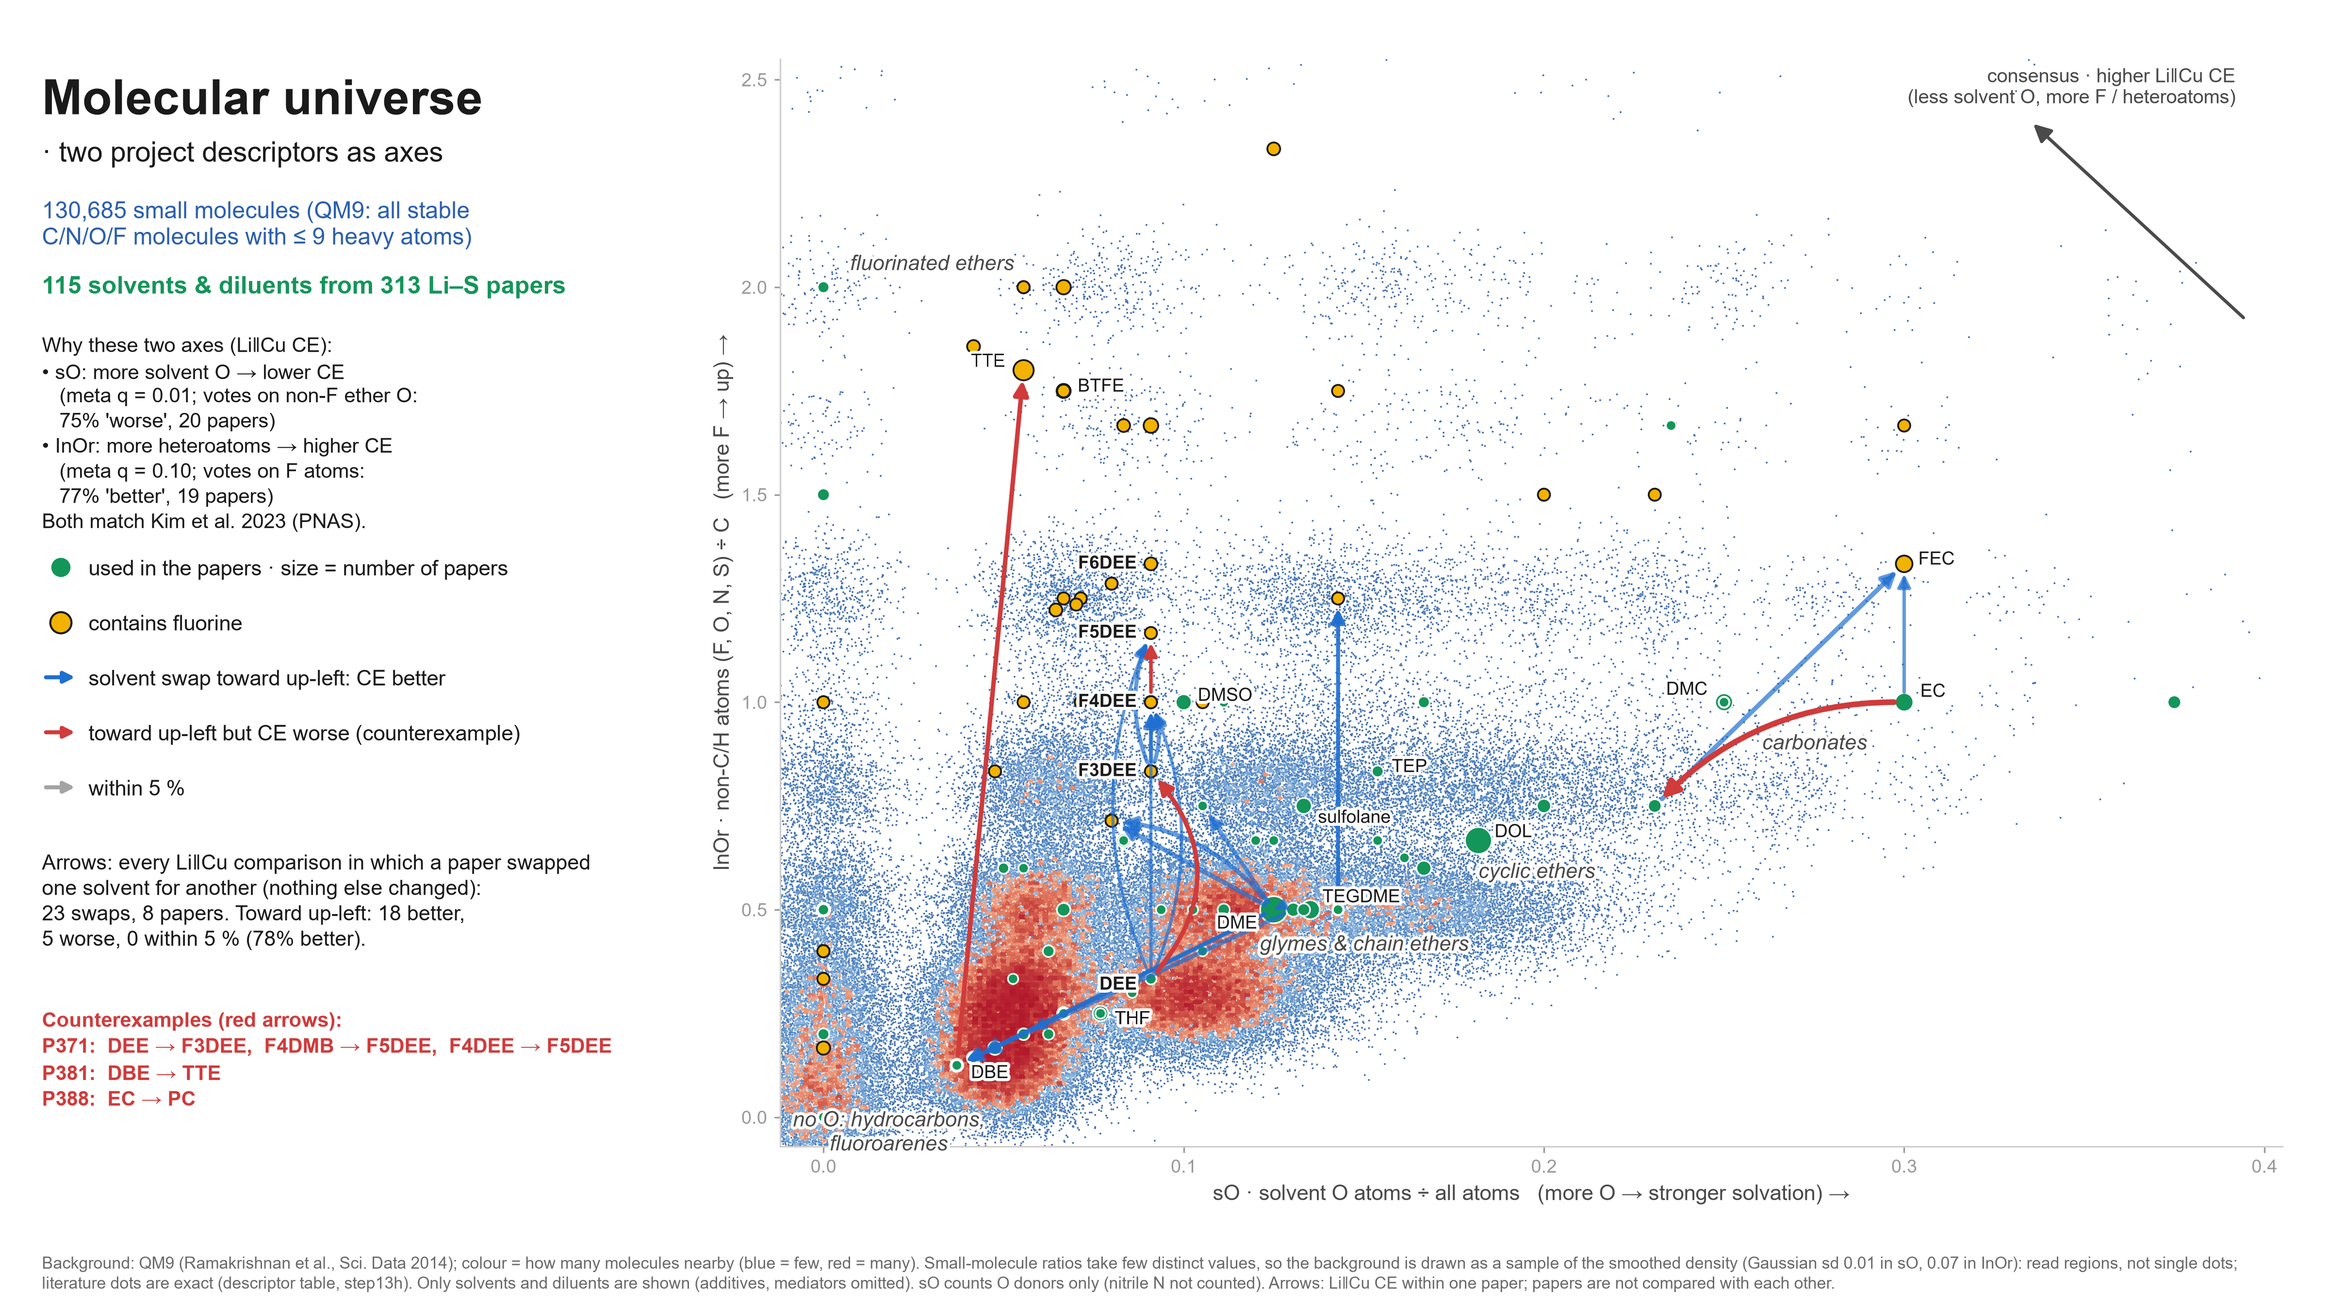
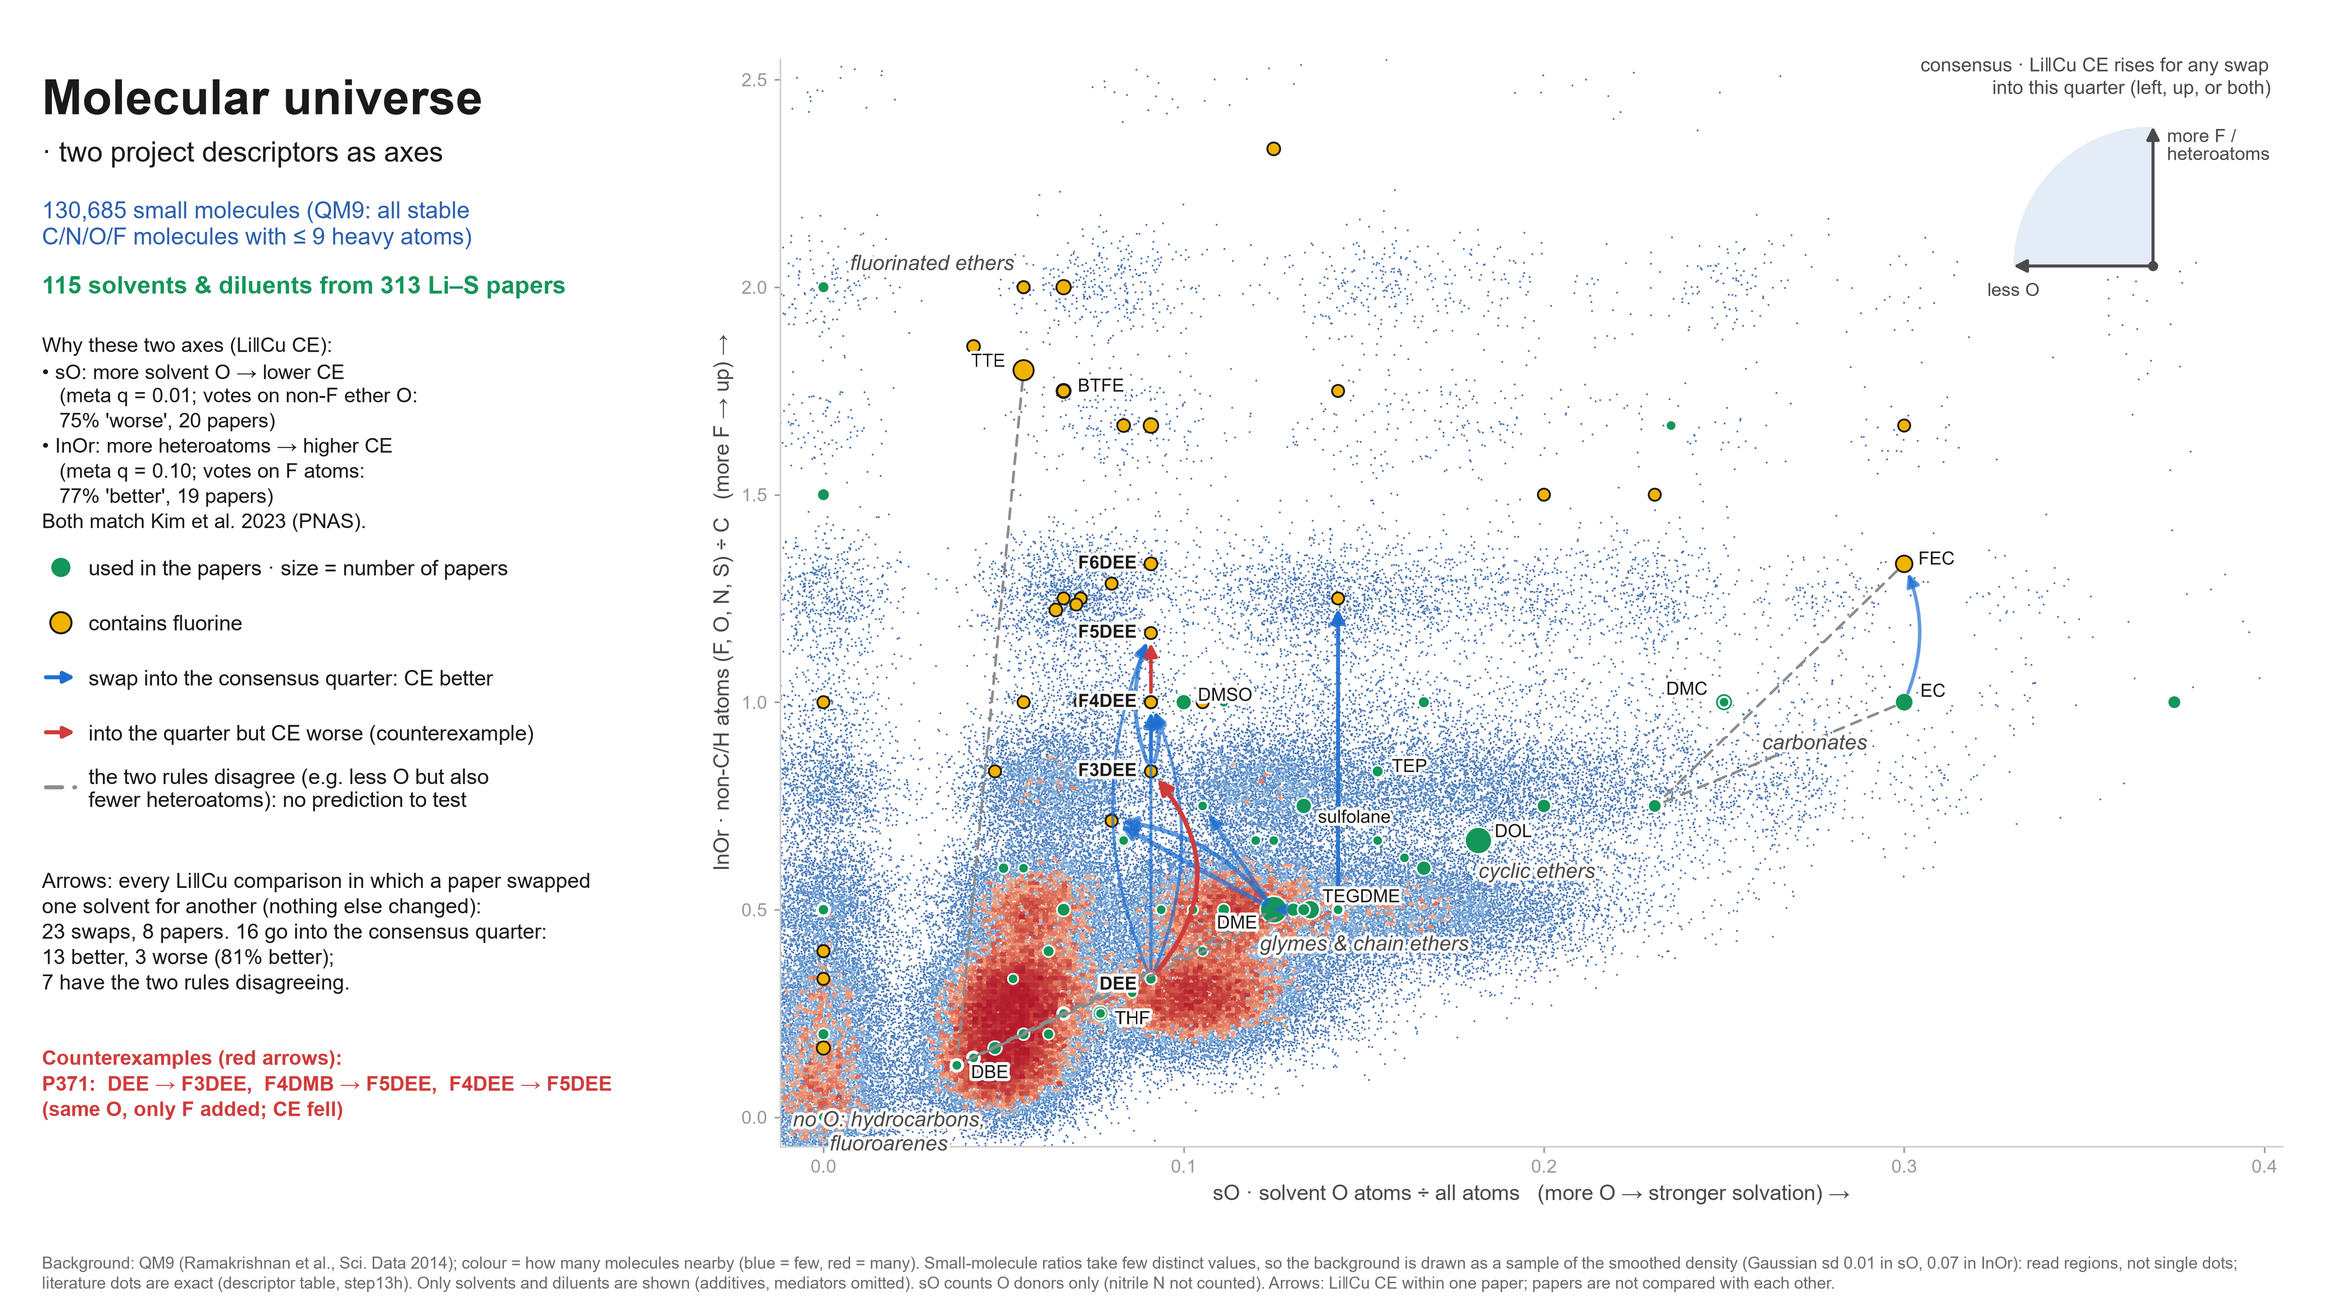
描述符版分子宇宙：共识改为左上象限，两轴打架的换溶剂改灰虚线、不计好坏；红箭头只剩 P371 三根（11-09 用户：“那些变好的也偏离了共识方向啊”，方案“可以”）

diff --git a/scripts/step25b_descriptor_universe_plot.py b/scripts/step25b_descriptor_universe_plot.py
@@ -8,8 +8,11 @@
 11-08 夜第一版：只画非质子分子、散开 0.0035/0.022 → 点稀、成格子和横纹，用户“不太分子宇宙” → 背景改全部 QM9（同原版）、散开加大；
   P371、P381 的数值移到左栏，图上只留短标记；去掉 DEE、F6DEE 两个结构框（改文字标签）；文字加白描边。
 箭头 = 同一篇、同一个 Li‖Cu 测试里只把一种溶剂换成另一种（其余组分和用量不变）的全部比较（11-09 用户：“貌似怎么只有两篇文献”“需要颜色/大小……单作一个维度来证明库伦效率大小”，方案“可以”）：同一篇同一对分子在多个测试里比过的合成一个箭头（效果中位数）；
-箭头一律指向共识方向（左上：sO 低、InOr 高）那一侧，蓝 = 箭头指向的溶剂 CE 更好、红 = 更差、灰 = 相差 5% 以内，线宽 = 变化大小。
-共识方向（左上 = 溶剂氧少、杂原子多）来自计票与 meta；往“更好”方向走却变差的红箭头就是问题 1 的矛盾。
+共识（来自计票与 meta）是两条分开的规律：溶剂氧少 → CE 好（往左）、杂原子多 → CE 好（往上），所以“符合共识”的是左上整个象限，不是一根斜线
+（11-09 用户：“为啥变好/差的箭头跟共识不一样”“那些变好的也偏离了共识方向啊”→ 方案“可以”）：
+两根轴都朝左上（或一根不变）的换溶剂，共识有明确预测，箭头从共识认为差的指向共识认为好的：蓝 = 真的更好、红 = 反而更差（矛盾）、灰实线 = 相差 5% 以内，线宽 = 变化大小；
+两根轴打架的（如氧少了、杂原子也少了），两条规律预测相反，画灰色虚线、不带箭头，不计入好/差（旧版按标准化后相加定方向，属人为折算，已弃用）。
+右上角的示意（浅色四分之一圆 + 往左、往上两根箭头）代替旧版的一根斜箭头。
 只画溶剂与稀释剂（组分角色为“溶剂”“溶剂/添加剂”）；添加剂、介体不画。图上文字英文。
 输出 output/分子宇宙_描述符版_2026-11-08/分子宇宙_描述符版.png（300 dpi）、汇总.json，并复制到组会图文件夹与网站 图/（fig_molecular_map.png）。
 用法：D:\\anaconda\\envs\\papertrail\\python.exe -X utf8 scripts/step25b_descriptor_universe_plot.py
@@ -25,7 +28,7 @@ matplotlib.use("Agg")
 import matplotlib.pyplot as plt
 from matplotlib.colors import LinearSegmentedColormap
 from matplotlib.offsetbox import AnnotationBbox, OffsetImage, TextArea, VPacker
-from matplotlib.patches import FancyArrowPatch
+from matplotlib.patches import FancyArrowPatch, Wedge
 import matplotlib.patheffects as pe
 
 ROOT = Path(r"D:\Desktop\课题二锂硫电解液矛盾归因")
@@ -47,6 +50,7 @@ BG_CMAP = LinearSegmentedColormap.from_list("mu_rb", [(0, "#2c5aa0"), (0.3, "#4f
 INK, INK2, GREY_TXT = "#1a1a1a", "#4a4a4a", "#6b6b6b"
 GREEN, GOLD, GOLD_TXT, BLUE_TXT = "#14955a", "#f2b200", "#a87b00", "#2b5fae"
 BETTER, WORSE, NEAR = "#1f6fd1", "#d03b3b", "#a3a3a3"
+MIXED, CONS_FILL = "#8c8c8c", "#e3ecf7"  # 两条规律打架的换溶剂（灰虚线）；共识象限示意的底色
 SHOW = {"DEE12": "DEE", "DTFEG": "F6DEE"}
 XL, YL = (-0.012, 0.405), (-0.07, 2.55)
 JIT = (0.010, 0.070)  # 背景点散开的标准差（sO、InOr）：等于按这个带宽平滑后的密度抽样；只为显示密度
@@ -163,33 +167,51 @@ def main():
     ax.scatter(X[Fm], Y[Fm], s=size[Fm] + 10, c=GOLD, lw=0.9, edgecolors=INK, zorder=5)
     P = {i: (L[i]["x"], L[i]["y"]) for i in ids}
 
-    # 同篇只换一种溶剂的全部 Li‖Cu 比较：箭头指向共识方向（左上）那一侧
-    sdx, sdy = X.std(), Y.std()
-    score = lambda m: m[1] / sdy - m[0] / sdx
+    # 同篇只换一种溶剂的全部 Li‖Cu 比较。共识是两条分开的规律（氧少 → 好、杂原子多 → 好），所以“符合共识的方向”是左上整个象限，
+    # 不是一根斜线（11-09 用户：“那些变好的也偏离了共识方向啊”→ 方案“可以”）：
+    # 两根轴都朝共识（或其中一根不变）→ 共识有明确预测：箭头从共识认为差的指向共识认为好的，蓝 = 真的更好、红 = 反而更差（矛盾）；
+    # 两根轴打架（如氧少了、杂原子也少了）→ 两条规律预测相反、没有可检验的预测：画灰色虚线、不带箭头，不计入好/差。
+    eps = 1e-9
     SW = []
     for (p, frm, to), es in swaps().items():
         mf, mt = mol_xy(frm), mol_xy(to)
-        if mf is None or mt is None or abs(score(mf) - score(mt)) < 1e-9:
+        if mf is None or mt is None or (abs(mf[0] - mt[0]) < eps and abs(mf[1] - mt[1]) < eps):
             continue
         e = float(np.median(es))
-        if score(mt) < score(mf):
-            frm, to, mf, mt, e = to, frm, mt, mf, -e
-        SW.append({"论文": p, "尾": frm, "头": to, "效果": e, "次数": len(es), "结果": "好" if e > T.T else "差" if e < -T.T else "近", "xy": (mf, mt)})
+        dx, dy = mt[0] - mf[0], mt[1] - mf[1]
+        into = lambda dx, dy: dx <= eps and dy >= -eps  # 落在左上象限（含正左、正上）
+        if not into(dx, dy) and into(-dx, -dy):  # 反过来才朝左上：调换首尾，让箭头指向共识认为更好的那个
+            frm, to, mf, mt, e, dx, dy = to, frm, mt, mf, -e, -dx, -dy
+        clean = into(dx, dy)  # 两个方向都不朝左上 = 两轴打架
+        res = ("好" if e > T.T else "差" if e < -T.T else "近") if clean else "打架"
+        SW.append({"论文": p, "尾": frm, "头": to, "效果": e, "次数": len(es), "结果": res, "xy": (mf, mt)})
     fan = {}
-    for x in sorted(SW, key=lambda x: {"近": 0, "好": 1, "差": 2}[x["结果"]]):
+    for x in sorted(SW, key=lambda x: {"打架": -1, "近": 0, "好": 1, "差": 2}[x["结果"]]):
         k = fan.setdefault((x["论文"], x["尾"]), 0)
         fan[(x["论文"], x["尾"])] += 1
         rad = 0.0 if k == 0 else 0.22 * ((k + 1) // 2) * (1 if k % 2 else -1)
+        if x["结果"] == "打架":
+            ax.add_patch(FancyArrowPatch(*x["xy"], connectionstyle=f"arc3,rad={rad}", arrowstyle="-", color=MIXED, lw=1.3,
+                                         linestyle=(0, (4, 3)), shrinkA=5, shrinkB=5, zorder=4.5))
+            continue
         m = min(abs(x["效果"]), 2.0) / 2.0
         lw = (1.6 + 1.8 * m) if x["结果"] == "差" else (0.9 + 1.4 * m)
         ax.add_patch(FancyArrowPatch(*x["xy"], connectionstyle=f"arc3,rad={rad}", arrowstyle="-|>", mutation_scale=8 + 3 * lw,
                                      color={"好": BETTER, "差": WORSE, "近": NEAR}[x["结果"]], lw=lw, alpha=1.0 if x["结果"] == "差" else 0.7,
                                      shrinkA=5, shrinkB=5, zorder=6 if x["结果"] == "差" else 5))
-    tw = {k: sum(x["结果"] == k for x in SW) for k in ("好", "差", "近")}
+    tw = {k: sum(x["结果"] == k for x in SW) for k in ("好", "差", "近", "打架")}
     reds = sorted([x for x in SW if x["结果"] == "差"], key=lambda x: (x["论文"], x["效果"]))
-    # 共识方向
-    ax.add_patch(FancyArrowPatch((0.395, 1.92), (0.335, 2.40), arrowstyle="-|>", mutation_scale=18, color=INK2, lw=1.6, zorder=6))
-    ax.text(0.392, 2.43, "consensus · higher Li‖Cu CE\n(less solvent O, more F / heteroatoms)", ha="right", va="bottom", fontsize=9.5, color=INK2, zorder=8)
+    # 共识：左上整个象限（右上角的小示意：浅色四分之一圆 + 往左、往上两根箭头）
+    cax = fig.add_axes([0.845, 0.765, 0.105, 0.165])
+    cax.set_xlim(-1.25, 0.35); cax.set_ylim(-0.3, 1.25); cax.set_aspect("equal"); cax.axis("off")
+    cax.add_patch(Wedge((0, 0), 1.0, 90, 180, fc=CONS_FILL, ec="none", zorder=1))
+    for d in ((-1.0, 0), (0, 1.0)):
+        cax.add_patch(FancyArrowPatch((0, 0), d, arrowstyle="-|>", mutation_scale=13, color=INK2, lw=1.5, shrinkA=0, shrinkB=0, zorder=3))
+    cax.plot([0], [0], "o", ms=4, color=INK2, zorder=4)
+    cax.text(-1.0, -0.12, "less O", ha="center", va="top", fontsize=9, color=INK2)
+    cax.text(0.1, 1.0, "more F /\nheteroatoms", ha="left", va="top", fontsize=9, color=INK2, linespacing=1.05)
+    fig.text(0.975, 0.958, "consensus · Li‖Cu CE rises for any swap\ninto this quarter (left, up, or both)", ha="right", va="top",
+             fontsize=9.5, color=INK2, linespacing=1.25, path_effects=HALO)
 
     for mid, box in CALLOUTS.items():
         if mid in P:
@@ -229,21 +251,29 @@ def main():
         a.scatter([0], [0], s=110, c=mk[0], edgecolors=mk[1], linewidths=1)
         fig.text(tx + 0.02, yy, txt, fontsize=10.5, color=INK, va="center")
         yy -= 0.042
-    for col, txt in ((BETTER, "solvent swap toward up-left: CE better"), (WORSE, "toward up-left but CE worse (counterexample)"),
-                     (NEAR, "within 5 %")):
+    legend = [(BETTER, "-|>", "-", "swap into the consensus quarter: CE better"),
+              (WORSE, "-|>", "-", "into the quarter but CE worse (counterexample)"),
+              (MIXED, "-", (0, (4, 3)), "the two rules disagree (e.g. less O but also\nfewer heteroatoms): no prediction to test")]
+    if tw["近"]:
+        legend.append((NEAR, "-|>", "-", "within 5 %"))
+    for col, style, ls, txt in legend:
         a = fig.add_axes([tx, yy - 0.012, 0.016, 0.028]); a.axis("off"); a.set_xlim(0, 1); a.set_ylim(-1, 1)
-        a.add_patch(FancyArrowPatch((0.0, 0), (1.0, 0), arrowstyle="-|>", mutation_scale=11, color=col, lw=2))
-        fig.text(tx + 0.02, yy, txt, fontsize=10.5, color=INK, va="center")
-        yy -= 0.042
+        a.add_patch(FancyArrowPatch((0.0, 0), (1.0, 0), arrowstyle=style, mutation_scale=11, color=col, lw=2, linestyle=ls))
+        fig.text(tx + 0.02, yy, txt, fontsize=10.5, color=INK, va="center", linespacing=1.15)
+        yy -= 0.042 if "\n" not in txt else 0.056
     npap = len({x["论文"] for x in SW})
+    ntest = tw["好"] + tw["差"] + tw["近"]
     fig.text(tx, yy - 0.005, f"Arrows: every Li‖Cu comparison in which a paper swapped\none solvent for another (nothing else changed):\n"
-             f"{len(SW)} swaps, {npap} papers. Toward up-left: {tw['好']} better,\n{tw['差']} worse, {tw['近']} within 5 % ({tw['好'] / max(1, tw['好'] + tw['差']):.0%} better).",
+             f"{len(SW)} swaps, {npap} papers. {ntest} go into the consensus quarter:\n{tw['好']} better, {tw['差']} worse"
+             + (f", {tw['近']} within 5 %" if tw["近"] else "") + f" ({tw['好'] / max(1, tw['好'] + tw['差']):.0%} better);\n"
+             f"{tw['打架']} have the two rules disagreeing.",
              fontsize=10.3, color=INK, va="top", linespacing=1.3)
     byp = {}
     for x in reds:
         byp.setdefault(x["论文"], []).append(f"{SHOW.get(x['尾'], x['尾'])} → {SHOW.get(x['头'], x['头'])}")
     red_txt = "\n".join(f"{p}:  " + ",  ".join(v) for p, v in byp.items())
-    fig.text(tx, yy - 0.125, "Counterexamples (red arrows):\n" + red_txt, fontsize=10, color=WORSE, fontweight="bold", va="top", linespacing=1.35)
+    fig.text(tx, yy - 0.14, "Counterexamples (red arrows):\n" + red_txt + "\n(same O, only F added; CE fell)", fontsize=10, color=WORSE,
+             fontweight="bold", va="top", linespacing=1.35)
     fig.text(tx, 0.012, "Background: QM9 (Ramakrishnan et al., Sci. Data 2014); colour = how many molecules nearby (blue = few, red = many). Small-molecule ratios take few distinct values, "
              f"so the background is drawn as a sample of the smoothed density (Gaussian sd {JIT[0]} in sO, {JIT[1]} in InOr): read regions, not single dots;\n"
              "literature dots are exact (descriptor table, step13h). Only solvents and diluents are shown (additives, mediators omitted). "
@@ -257,7 +287,10 @@ def main():
     s = {"背景分子（QM9 全部含碳分子，画在范围内）": int(keep.sum()), "QM9 总数": int(bg["n_qm9"]), "其中质子性（含 O–H/N–H，照画）": int(bg["n_protic"]),
          "文献溶剂/稀释剂": len(ids), "含氟": int(Fm.sum()), "背景散开标准差": JIT, "轴的依据": ev,
          "换溶剂箭头": {"组数": len(SW), "论文": sorted({x["论文"] for x in SW}), **tw,
-                     "红": [{k: x[k] for k in ("论文", "尾", "头", "效果", "次数")} for x in reds]},
+                     "红": [{k: x[k] for k in ("论文", "尾", "头", "效果", "次数")} for x in reds],
+                     "两轴打架": [{**{k: x[k] for k in ("论文", "尾", "头", "效果", "次数")}, "实际更好": x["头"] if x["效果"] > 0 else x["尾"]}
+                              for x in SW if x["结果"] == "打架"],
+                     "口径": "共识 = 左上整个象限（氧少、杂原子多两条规律）；两轴打架的不计入好/差（11-09 改）"},
          "关键分子坐标": {i: [round(L[i]["x"], 3), round(L[i]["y"], 3)] for i in list(CALLOUTS) + list(TEXT_ONLY) if i in L}}
     (OUT / "汇总.json").write_text(json.dumps(s, ensure_ascii=False, indent=1), encoding="utf-8")
     print(f, json.dumps(s, ensure_ascii=False)[:600])

diff --git a/进度_历史.md b/进度_历史.md
@@ -1,5 +1,10 @@
 # 课题二 进度历史（2026-10-19 至 2026-11-06）
 
+> **2026-11-09 夜｜描述符版分子宇宙：共识改为左上象限，两轴打架的换溶剂改灰虚线（Claude；用户问“为啥变好/差的箭头跟共识不一样”“那些变好的也偏离了共识方向啊”，方案“可以”）**
+> - 原因：共识是两条分开的规律（溶剂氧少 → CE 高、杂原子多 → CE 高），符合共识的是左上整个象限；旧版只画一根斜箭头，且对两轴打架的换溶剂（如 DME → DBE：氧少了、杂原子也少了）按标准化后相加定方向，属人为折算。
+> - `step25b`：右上角改为浅色四分之一圆＋往左、往上两根箭头；23 组换溶剂里 16 组落在象限内（13 好、3 差，81%），红箭头只剩 P371 三根（氧不变、只加氟，CE 反降）；7 组两轴打架画灰虚线、不计好坏（P288 ×2、P314、P321、P381 DBE↔TTE、P388 ×2）。旧版 18 好 5 差、P381/P388 为红箭头作废。
+> - 07 页说明同步（`step13s_site.py`），整站重生成后只有这张图的两段说明变化；P381 在 05 页仍是“含氟溶剂比例”这一条的反例，不受影响。
+
 > **2026-11-09 晚｜读 Wu 2025（Angew）正文与 SI、证据审计试算、存阶段总结（Claude；用户“存个md进度吧，之后我来执行”）**
 > - Wu et al., Angew. Chem. Int. Ed. 2026, 65, e202520525（单原子催化剂高级氧化，921 篇预筛到 265 篇）：按字段挑模型 92.5%，多模型投票不提高；用提取数据审查淬灭剂专一性（FFA、NaN₃ 不专一）；速率常数分两群推出新机理。SI Text S6、Fig. S9：GPT-5 按“PMS 活化、HO• 为主”的筛选数据设计钴单原子催化剂，给出常规热解路线；罗丹明 B 降解好，但香豆素探针显示 HO• 不是主要物种，设计目标没达到（正文未写）。
 > - 证据审计试算（关键词粗分）：“富 LiF SEI”说法 122 条/59 篇，关联测试 XPS 77、冷冻电镜 3、核磁 2、ToF-SIMS 1；43/59 篇只用 XPS（分不出 LiF 来源）。Aurbach 法 Li‖Cu 只有 11 个测试/7 篇（−40 至 60 °C），“找隐藏的两类”暂不够数据。
